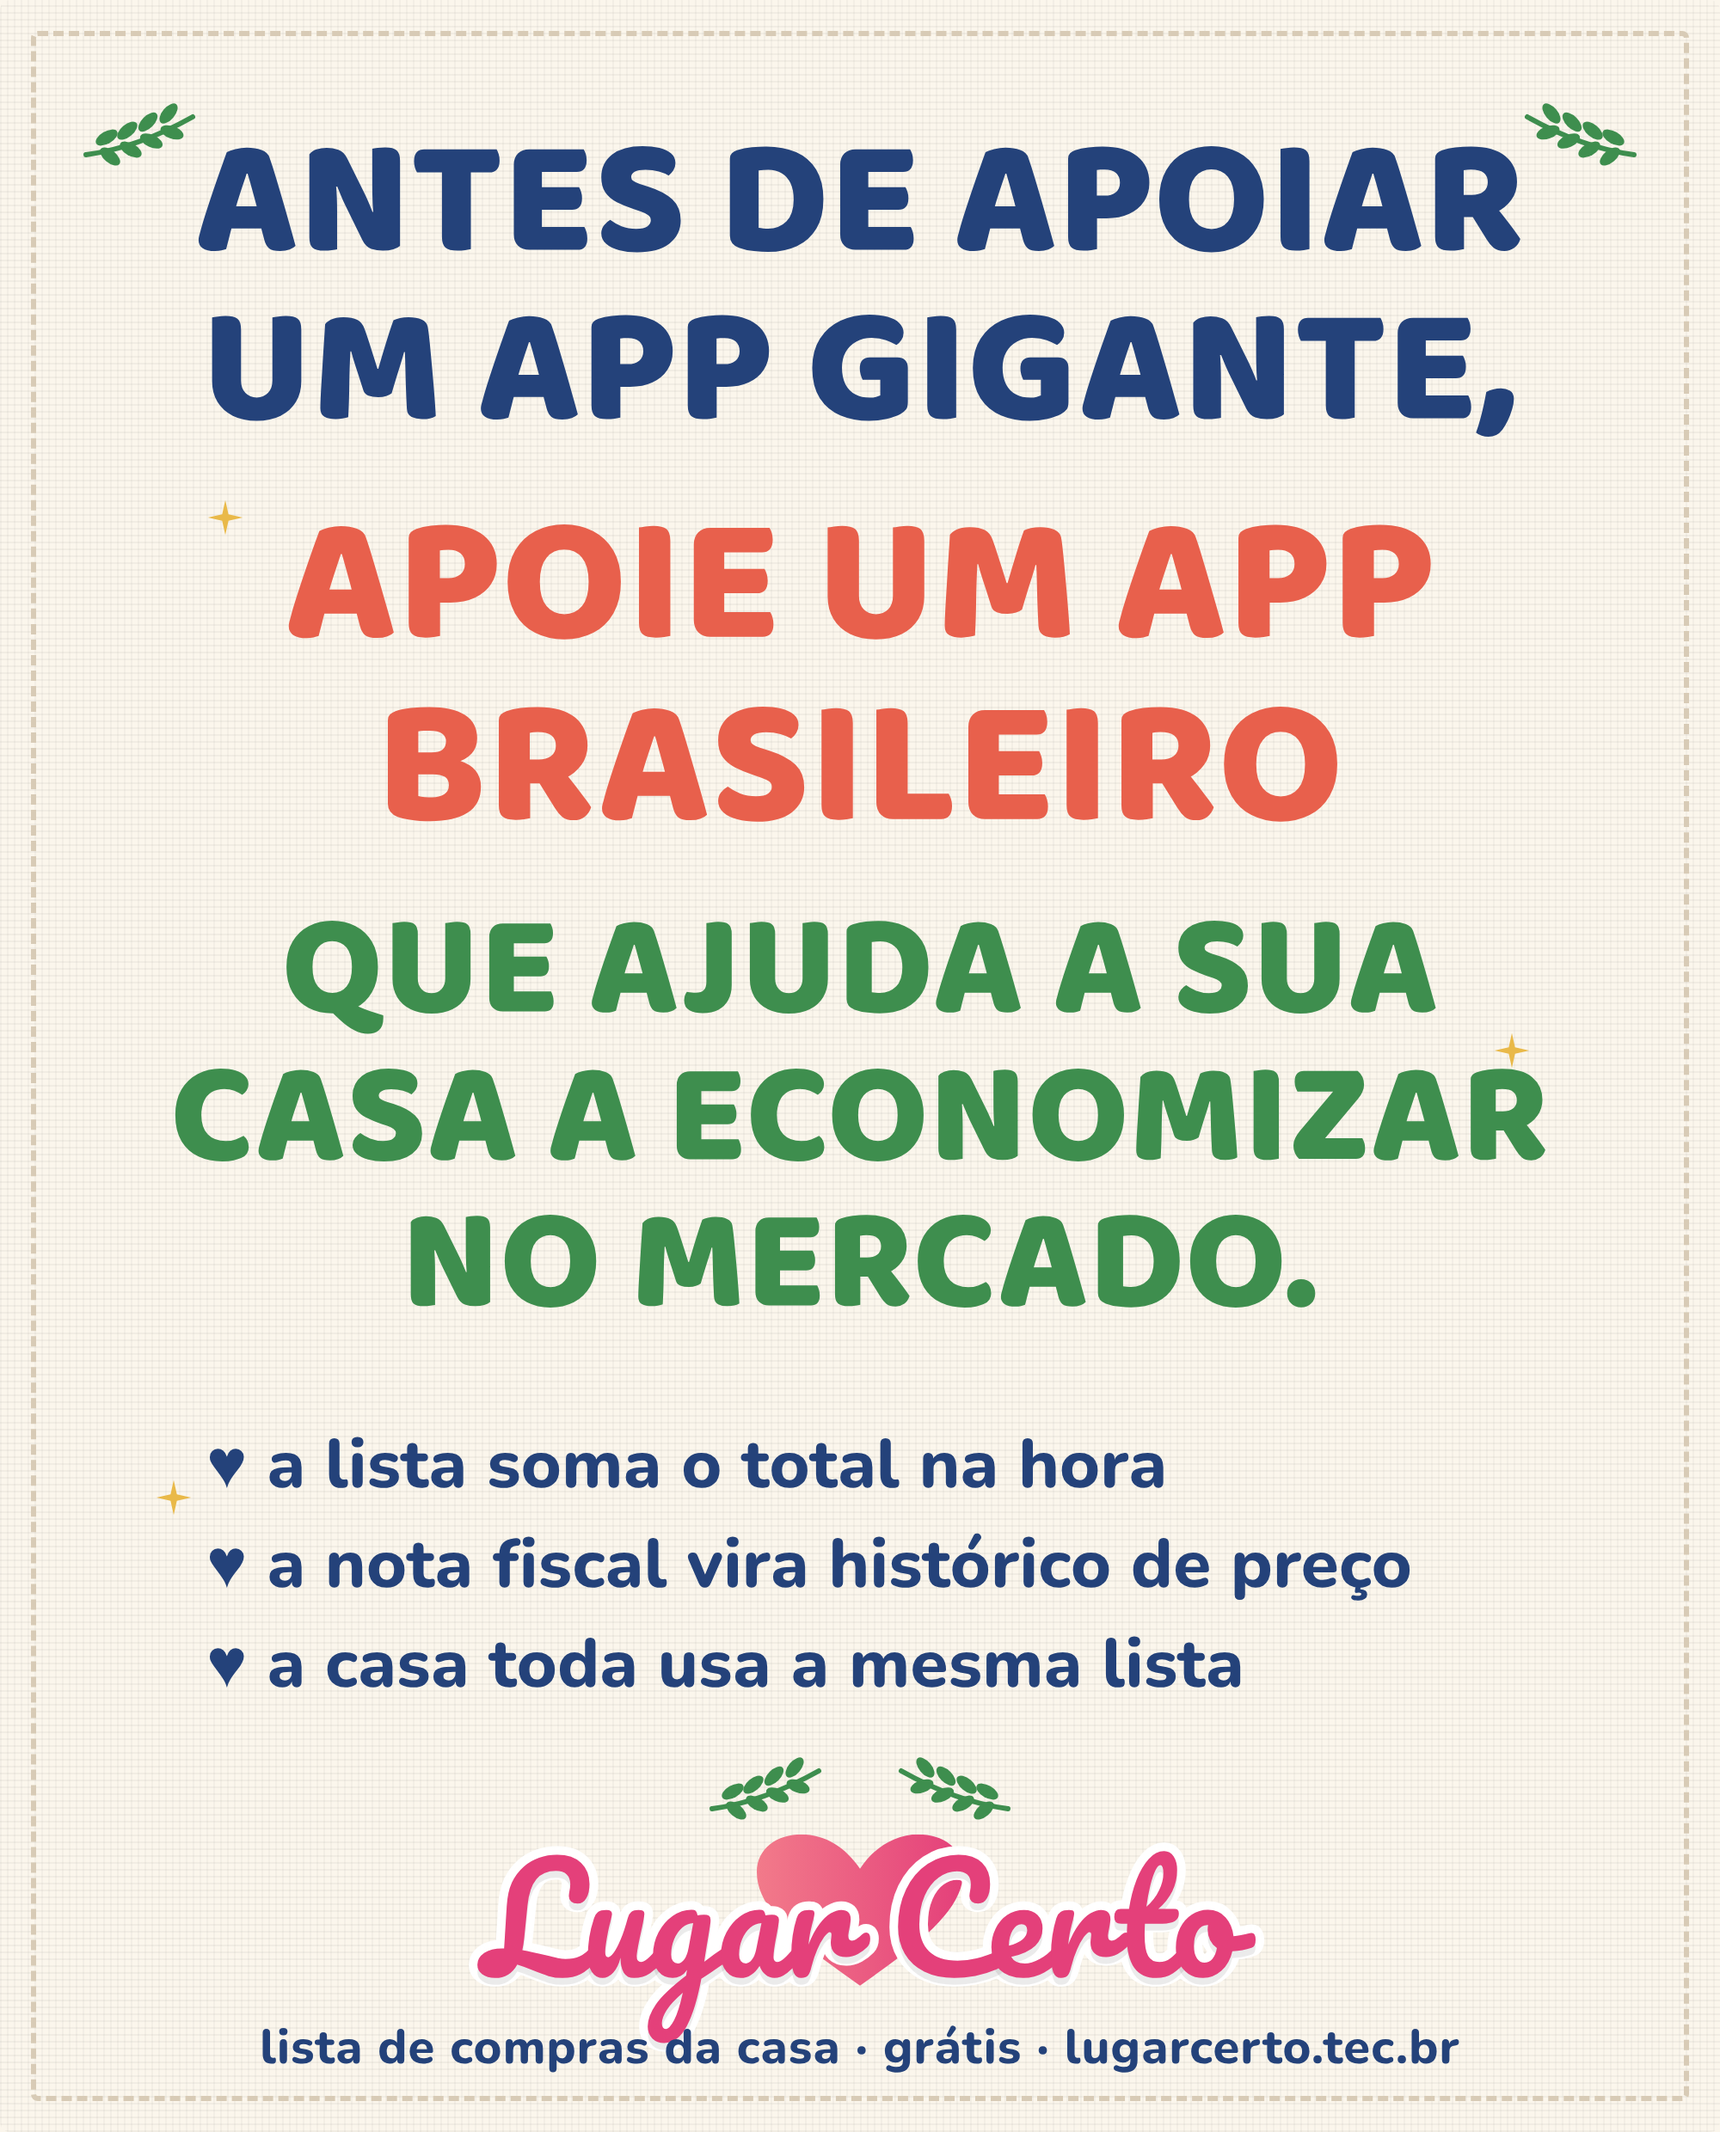
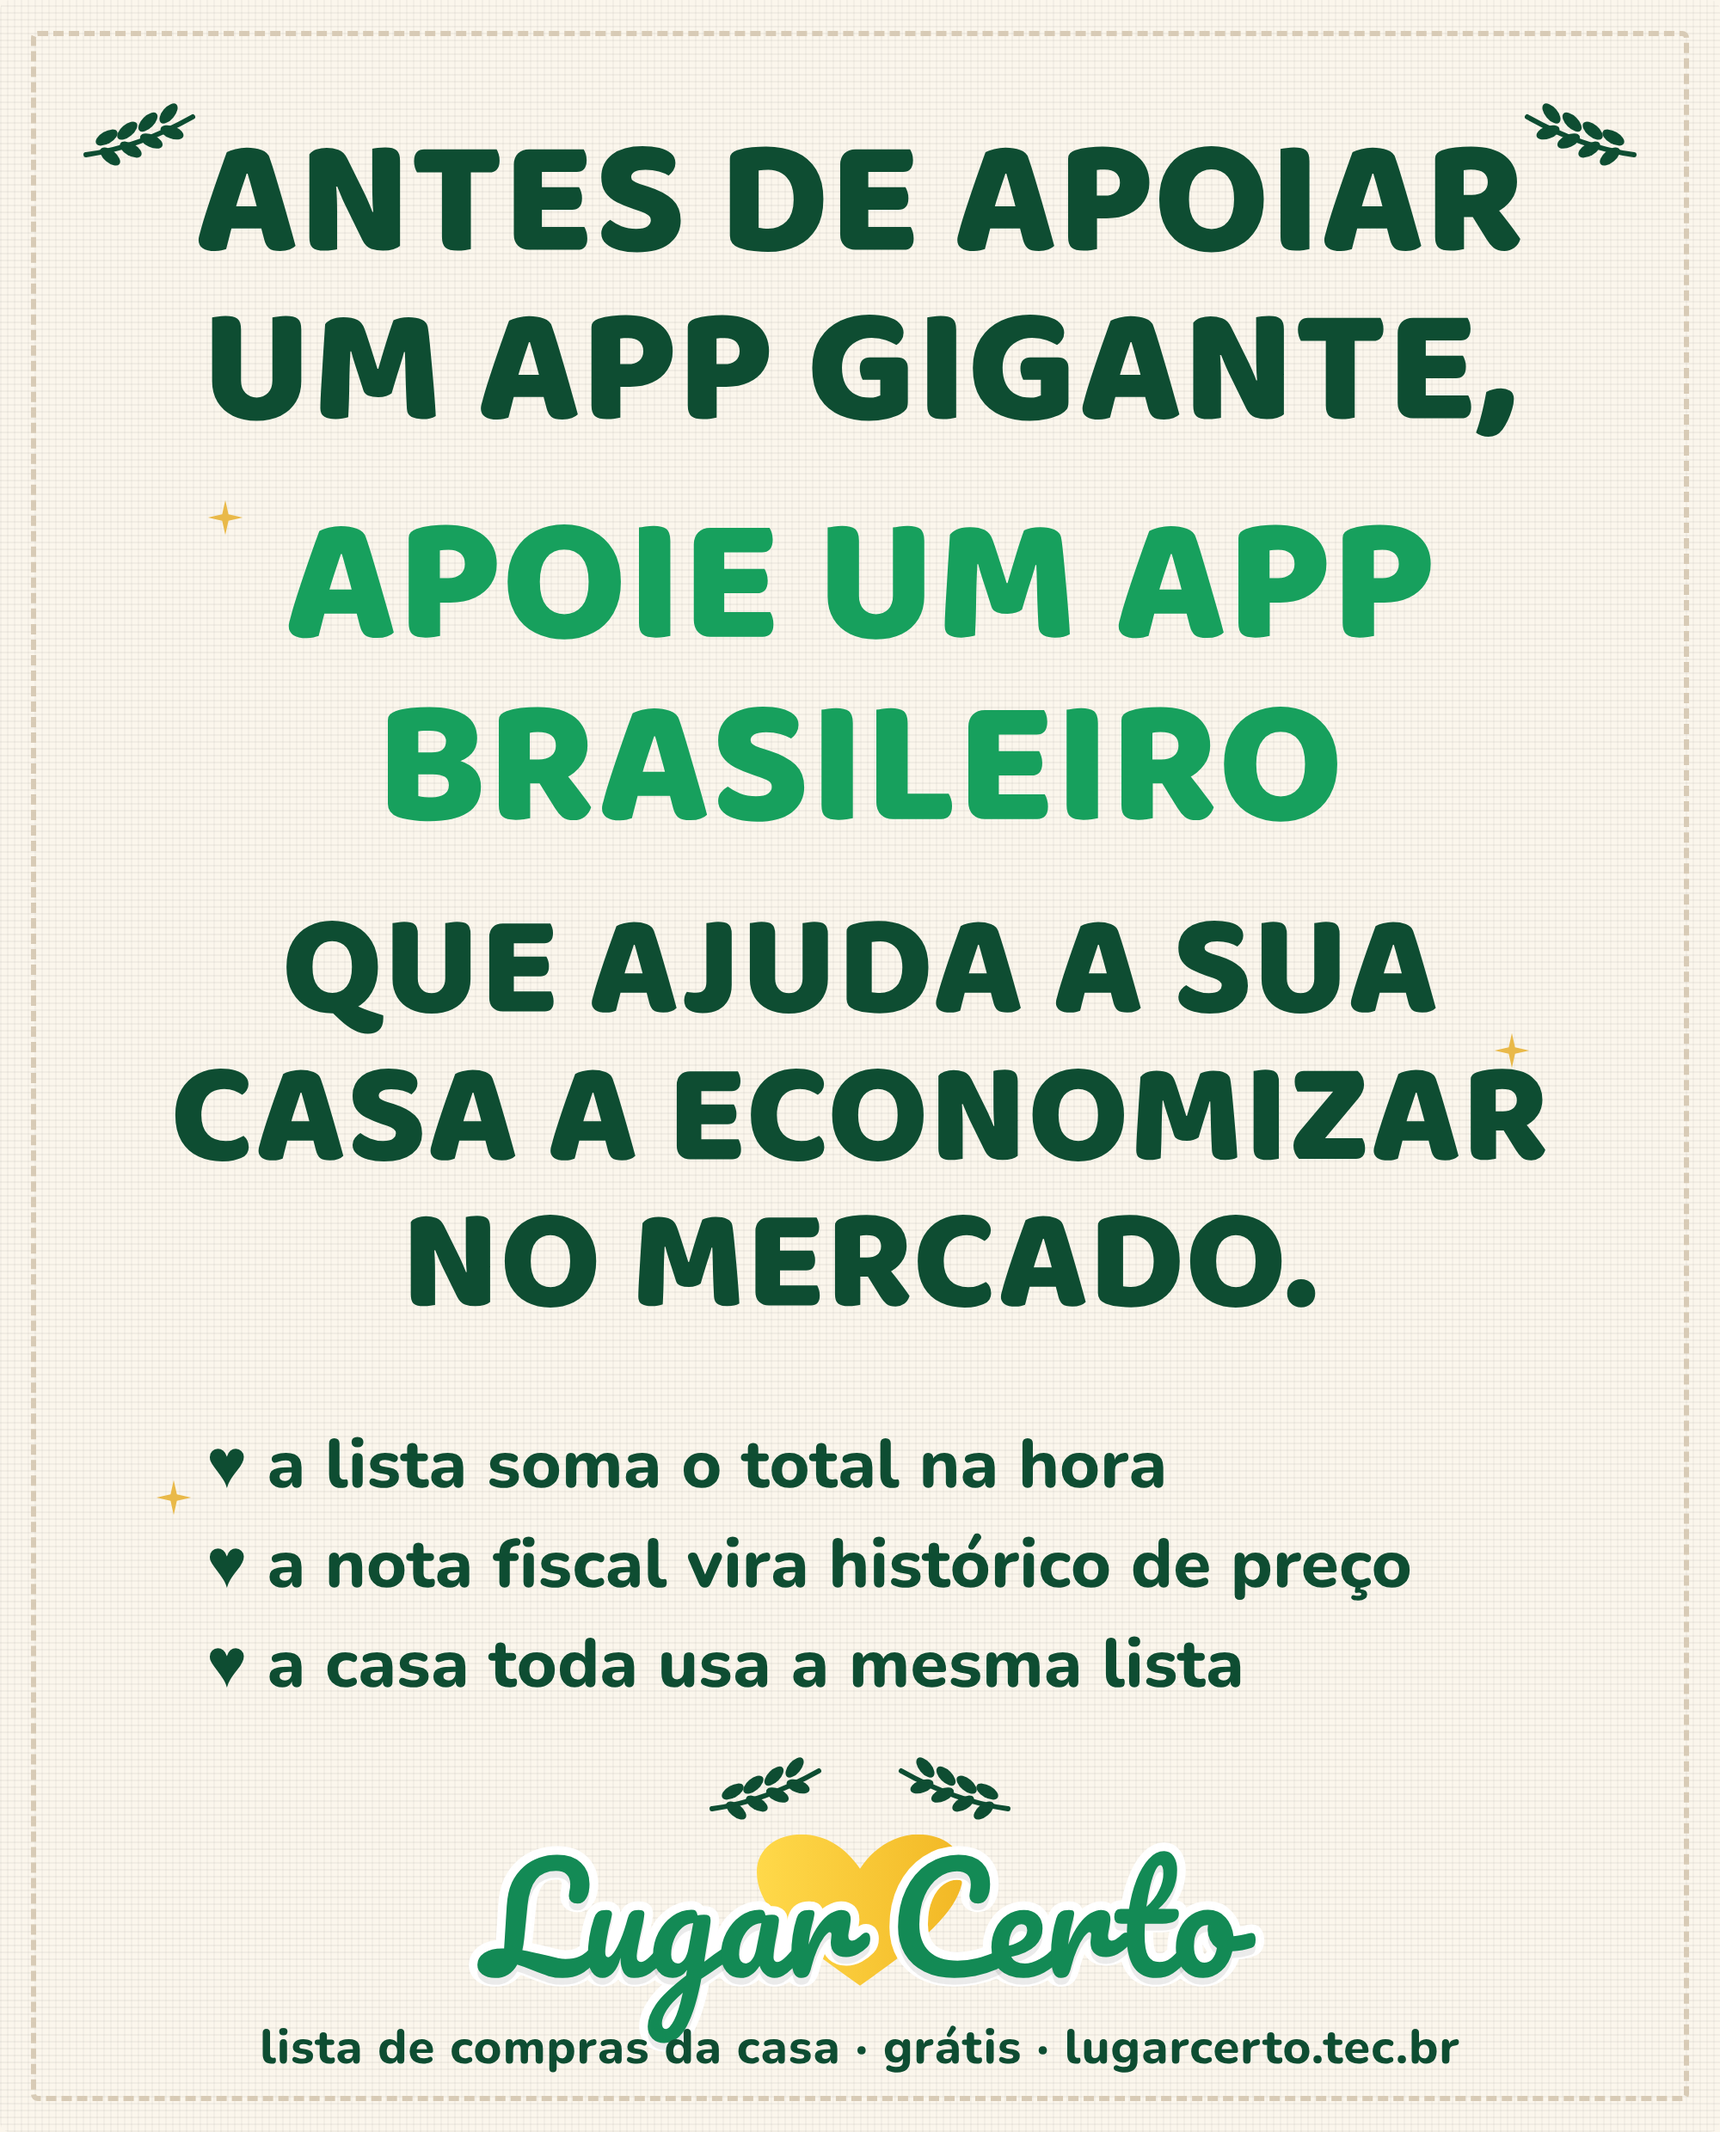
Faixa: paleta verde da marca
Claude-Session: https://claude.ai/code/session_012KxFEhdECWXooy2vCNkkfn

diff --git a/design/gerar-faixa.js b/design/gerar-faixa.js
@@ -9,12 +9,13 @@ const OUT = path.join(__dirname, '..', 'semana-48', 'faixa');
 fs.mkdirSync(OUT, { recursive: true });
 
 const FONTES = `<link href="https://fonts.googleapis.com/css2?family=Baloo+2:wght@700;800&family=Pacifico&family=Nunito:wght@700;800&display=block" rel="stylesheet">`;
-const NAVY = '#24427A', CORAL = '#E8604C', VERDE = '#3E8E4E', ROSA = '#E4407A';
+// Paleta da marca: verdes Lugar Certo + amarelo de destaque
+const NAVY = '#0E4D32', CORAL = '#17A05D', VERDE = '#0E4D32', ROSA = '#138A55';
 
 // Ramo de folhinhas (decoração da faixa)
 const ramo = (cor, flip = false) => `<svg width="70" height="40" viewBox="0 0 70 40" style="${flip ? 'transform:scaleX(-1)' : ''}"><path d="M4 30 Q34 26 66 8" stroke="${cor}" stroke-width="3" fill="none" stroke-linecap="round"/>${[[16, 26, -30], [28, 22, -40], [40, 17, -45], [52, 12, -50]].map(([x, y, r]) => `<ellipse cx="${x}" cy="${y - 6}" rx="7" ry="3.6" transform="rotate(${r} ${x} ${y - 6})" fill="${cor}"/><ellipse cx="${x + 2}" cy="${y + 5}" rx="7" ry="3.6" transform="rotate(${r + 70} ${x + 2} ${y + 5})" fill="${cor}"/>`).join('')}</svg>`;
 const brilho = (cor) => `<svg width="22" height="22" viewBox="0 0 24 24"><path d="M12 1 L14 10 L23 12 L14 14 L12 23 L10 14 L1 12 L10 10 Z" fill="${cor}"/></svg>`;
-const coracao = `<svg width="120" height="92" viewBox="0 0 120 92"><defs><linearGradient id="gco" x1="0" x2="1"><stop offset="0" stop-color="#F27A8A"/><stop offset="1" stop-color="#E4407A"/></linearGradient></defs><path d="M60 88 C20 60 0 42 0 22 C0 8 12 0 26 0 C40 0 52 8 60 20 C68 8 80 0 94 0 C108 0 120 8 120 22 C120 42 100 60 60 88 Z" fill="url(#gco)"/></svg>`;
+const coracao = `<svg width="120" height="92" viewBox="0 0 120 92"><defs><linearGradient id="gco" x1="0" x2="1"><stop offset="0" stop-color="#FFD94A"/><stop offset="1" stop-color="#F2B825"/></linearGradient></defs><path d="M60 88 C20 60 0 42 0 22 C0 8 12 0 26 0 C40 0 52 8 60 20 C68 8 80 0 94 0 C108 0 120 8 120 22 C120 42 100 60 60 88 Z" fill="url(#gco)"/></svg>`;
 
 // Faixa em unidades de 1000 px de largura (escala via CSS transform)
 const faixa = () => `
@@ -49,14 +50,14 @@ const impressao = `<!doctype html><html><head><meta charset="utf-8">${FONTES}<st
 
 // 2) Post 1080x1350: cenário de loja com flores + Bia segurando a faixa
 const flor = (x, y, r, c) => `<circle cx="${x}" cy="${y}" r="${r}" fill="${c}"/><circle cx="${x}" cy="${y}" r="${r * 0.35}" fill="#F6D27A"/>`;
-const flores = (ox, oy, n, seed) => { let s = ''; let k = seed; for (let i = 0; i < n; i++) { k = (k * 9301 + 49297) % 233280; const a = k / 233280; k = (k * 9301 + 49297) % 233280; const b = k / 233280; s += flor(ox + a * 260, oy + b * 300, 12 + (i % 3) * 5, ['#F4B6C2', '#F7D3DA', '#EE8FA6', '#FBE3E8', '#E9A0B4'][i % 5]); } return s; };
-const folhas = (ox, oy) => Array.from({ length: 9 }, (_, i) => `<path d="M${ox} ${oy} Q${ox - 120 + i * 30} ${oy - 160 - (i % 3) * 30} ${ox - 160 + i * 40} ${oy - 260 + (i % 2) * 40}" stroke="#3F7A4A" stroke-width="10" fill="none" stroke-linecap="round"/>`).join('');
+const flores = (ox, oy, n, seed) => { let s = ''; let k = seed; for (let i = 0; i < n; i++) { k = (k * 9301 + 49297) % 233280; const a = k / 233280; k = (k * 9301 + 49297) % 233280; const b = k / 233280; s += flor(ox + a * 260, oy + b * 300, 12 + (i % 3) * 5, ['#FFFFFF', '#FFF4C2', '#FFD94A', '#F4F1E8', '#FFE680'][i % 5]); } return s; };
+const folhas = (ox, oy) => Array.from({ length: 9 }, (_, i) => `<path d="M${ox} ${oy} Q${ox - 120 + i * 30} ${oy - 160 - (i % 3) * 30} ${ox - 160 + i * 40} ${oy - 260 + (i % 2) * 40}" stroke="#0B4A2E" stroke-width="10" fill="none" stroke-linecap="round"/>`).join('');
 
 const post = `<!doctype html><html><head><meta charset="utf-8">${FONTES}
 <style>*{margin:0;box-sizing:border-box}body{width:1080px;height:1350px;overflow:hidden;position:relative;background:#F1EBE2}.abs{position:absolute}</style></head><body>
-  <div class="abs" style="left:0;top:0;right:0;height:1010px;background:linear-gradient(#F4EFE7,#ECE4D8)"></div>
+  <div class="abs" style="left:0;top:0;right:0;height:1010px;background:linear-gradient(#1FA463,#0F6B43)"></div>
   <div class="abs" style="left:0;right:0;top:1010px;bottom:0;background:#D9D4CC;background-image:linear-gradient(90deg,#0000000f 2px,transparent 2px),linear-gradient(#0000000f 2px,transparent 2px);background-size:180px 120px"></div>
-  <div class="abs" style="left:0;top:120px;width:300px;height:520px;background:linear-gradient(#8A5A3C,#6E4630);border-radius:0 10px 10px 0"></div>
+  <div class="abs" style="left:0;top:120px;width:300px;height:520px;background:linear-gradient(#0E5C3A,#0B4A2E);border-radius:0 10px 10px 0"></div>
   <svg class="abs" style="left:0;top:0" width="1080" height="1350">
     ${folhas(150, 900)}${folhas(140, 1000)}
     ${flores(0, 600, 60, 3)}${flores(40, 780, 50, 11)}
